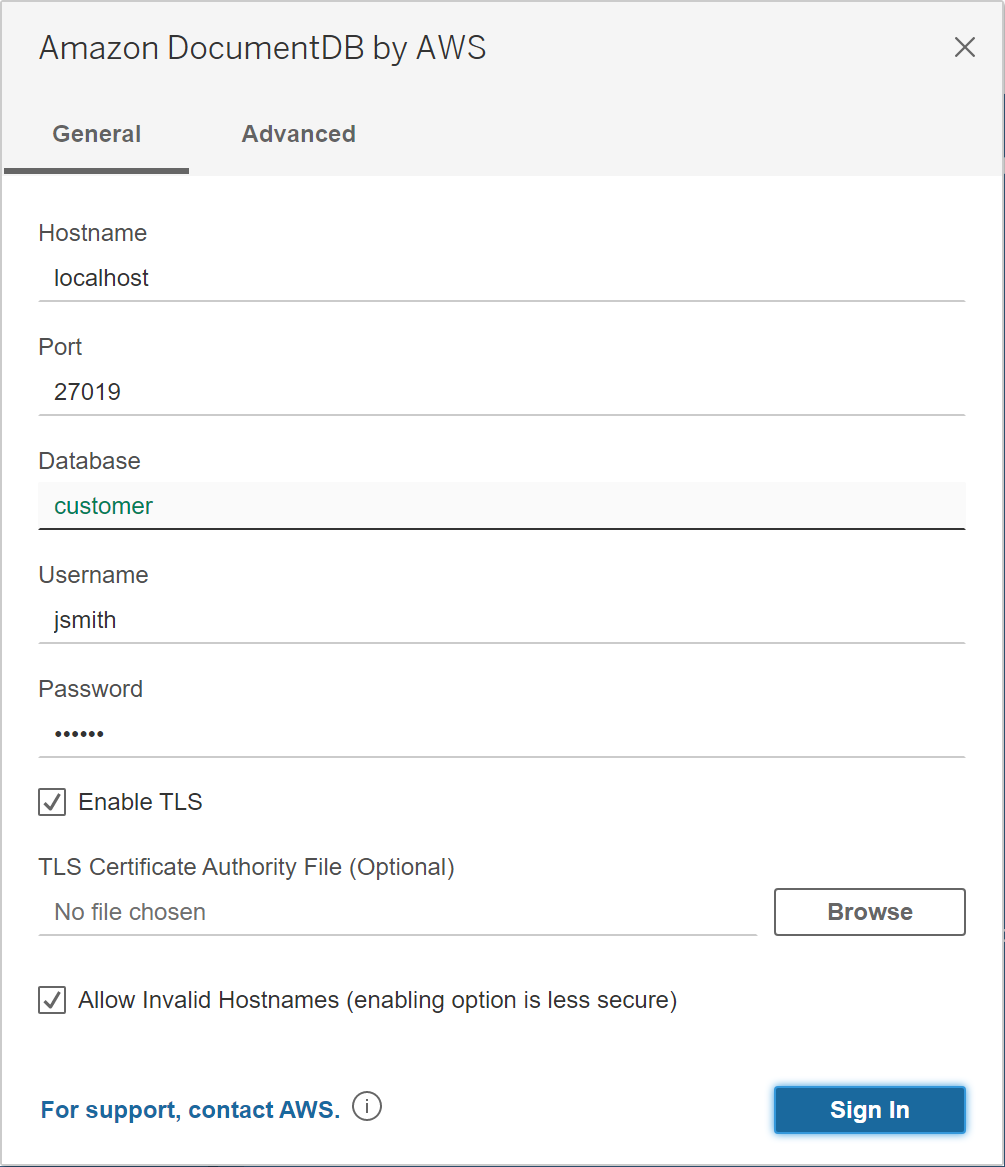
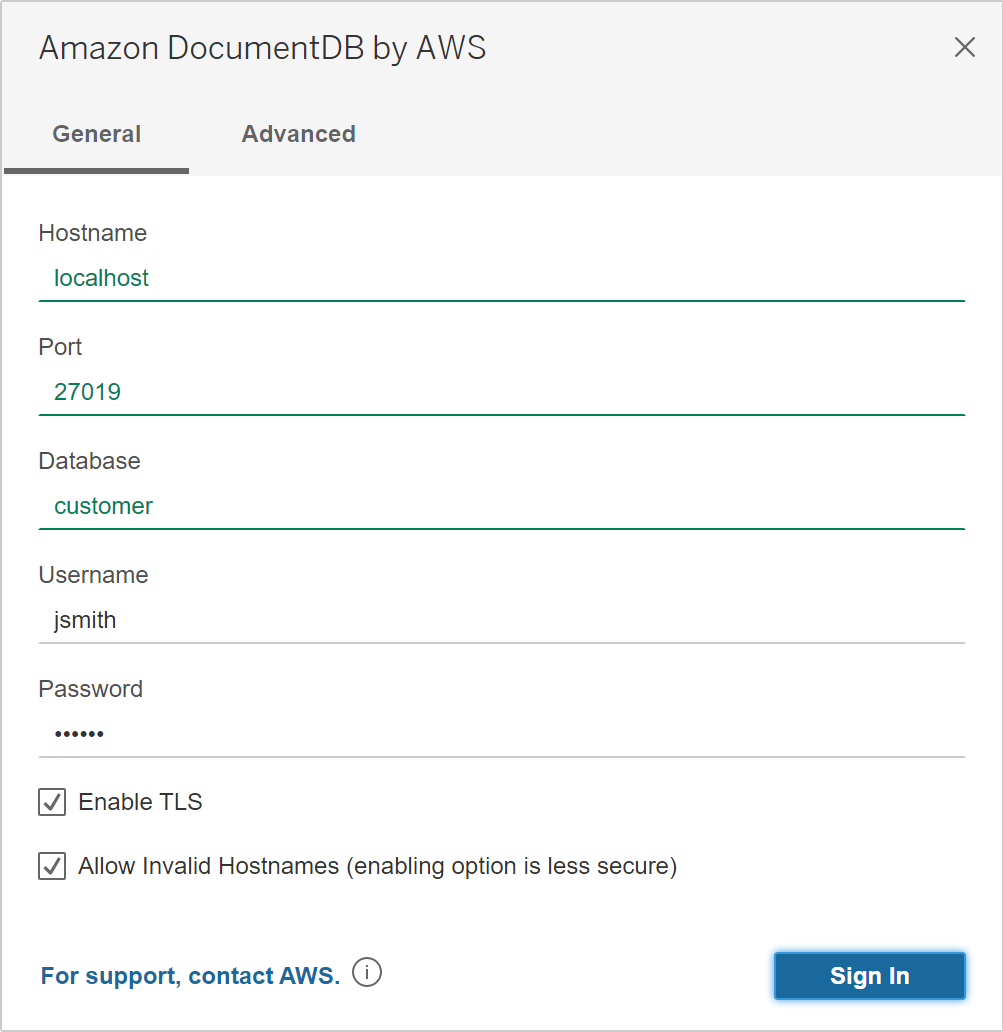
[AD-385] Tableau Connector - passphrase and file properties cannot be use on connection dialog. https:/bitquill.atlassian.net/browse/AD-385

diff --git a/docker/TableauConnector/connectionProperties.js b/docker/TableauConnector/connectionProperties.js
@@ -13,14 +13,11 @@
     const SCAN_LIMIT_KEY = "scanLimit";
     const RETRY_READS_KEY = "retryReads";
     const LOGIN_TIMEOUT_KEY= "loginTimeoutSec";
-    const TLS_CA_FILE_KEY="tlsCAFile"
     const SCHEMA_NAME="schemaName"
     const SSH_USER="sshUser"
     const SSH_HOST="sshHost"
     const SSH_PRIV_KEY_FILE="sshPrivateKeyFile"
-    const SSH_PRIVATE_KEY_PASSPHRASE="sshPrivateKeyPassphrase"
     const SSH_STRICT_HOST_KEY_CHECKING="sshStrictHostKeyChecking"
-    const SSH_KNOWN_HOSTS_FILE="sshKnownHostsFile"
     const REFRESH_SCHEMA="refreshSchema"
 
     // Get optional parameters.
@@ -31,13 +28,10 @@
     params[SCAN_METHOD_KEY] = attr["v-scan-method"];
     params[RETRY_READS_KEY] = attr["v-retry-reads"];
     params[LOGIN_TIMEOUT_KEY] = attr["v-login-timeout"];
-    params[TLS_CA_FILE_KEY] = attr["v-tls-ca-file"];
     params[SSH_USER] = attr["v-ssh-user"];
     params[SSH_HOST] = attr["v-ssh-host"];
     params[SSH_PRIV_KEY_FILE] = attr["v-ssh-priv-key-filename"];
-    params[SSH_PRIVATE_KEY_PASSPHRASE] = attr["v-ssh-priv-key-passphrase"];
     params[SSH_STRICT_HOST_KEY_CHECKING] = attr["v-ssh-strict-host-key-check"];
-    params[SSH_KNOWN_HOSTS_FILE] = attr["v-ssh-known-hosts-file"];
     params[REFRESH_SCHEMA] = attr["v-refresh-schema"];
 
     // Add schema name if set.

diff --git a/common/src/test/java/software/amazon/documentdb/jdbc/common/DocumentDbConnectionPropertiesTest.java b/common/src/test/java/software/amazon/documentdb/jdbc/common/DocumentDbConnectionPropertiesTest.java
@@ -27,12 +27,22 @@ import software.amazon.documentdb.jdbc.DocumentDbConnectionProperty;
 import software.amazon.documentdb.jdbc.DocumentDbMetadataScanMethod;
 import software.amazon.documentdb.jdbc.DocumentDbReadPreference;
 
+import java.io.File;
+import java.io.IOException;
+import java.nio.file.Path;
+import java.nio.file.Paths;
 import java.sql.SQLException;
 import java.util.Properties;
+import java.util.UUID;
 import java.util.concurrent.TimeUnit;
 import java.util.regex.Matcher;
 
+import static software.amazon.documentdb.jdbc.DocumentDbConnectionProperties.CLASS_PATH_LOCATION_NAME;
+import static software.amazon.documentdb.jdbc.DocumentDbConnectionProperties.DOCUMENTDB_HOME_PATH_NAME;
 import static software.amazon.documentdb.jdbc.DocumentDbConnectionProperties.DOCUMENT_DB_SCHEME;
+import static software.amazon.documentdb.jdbc.DocumentDbConnectionProperties.SSH_PRIVATE_KEY_FILE_SEARCH_PATHS;
+import static software.amazon.documentdb.jdbc.DocumentDbConnectionProperties.USER_HOME_PATH_NAME;
+import static software.amazon.documentdb.jdbc.DocumentDbConnectionProperties.getPath;
 
 public class DocumentDbConnectionPropertiesTest {
 
@@ -263,5 +273,62 @@ public class DocumentDbConnectionPropertiesTest {
         properties2.setTlsCAFilePath("~/invalid-filename.pem");
         Assertions.assertDoesNotThrow(
                 (ThrowingSupplier<MongoClientSettings>) properties2::buildMongoClientSettings);
+    }
+
+    @Test()
+    @DisplayName("Tests the getPath method.")
+    void testGetPath() throws IOException {
+        final String tempFilename1 = UUID.randomUUID().toString();
+
+        // Test that it will return using the "current directory"
+        final Path path1 = getPath(tempFilename1);
+        Assertions.assertEquals(Paths.get(tempFilename1).toAbsolutePath(), path1);
+
+        // Test that it will use the user's home path
+        final Path path2 = getPath("~/" + tempFilename1);
+        Assertions.assertEquals(Paths.get(USER_HOME_PATH_NAME, tempFilename1), path2);
+
+        // Test that it will use the user's home path
+        Path homeTempFilePath = null;
+        try {
+            homeTempFilePath = Paths.get(USER_HOME_PATH_NAME, tempFilename1);
+            Assertions.assertTrue(homeTempFilePath.toFile().createNewFile());
+            final Path path3 = getPath(tempFilename1, SSH_PRIVATE_KEY_FILE_SEARCH_PATHS);
+            Assertions.assertEquals(Paths.get(USER_HOME_PATH_NAME, tempFilename1), path3);
+        } finally {
+            Assertions.assertTrue(homeTempFilePath != null && homeTempFilePath.toFile().delete());
+        }
+
+        // Test that it will use the .documentdb folder under the user's home path
+        Path documentDbTempFilePath = null;
+        try {
+            documentDbTempFilePath = Paths.get(DOCUMENTDB_HOME_PATH_NAME, tempFilename1);
+            Assertions.assertTrue(documentDbTempFilePath.toFile().createNewFile());
+            final Path path4 = getPath(tempFilename1, SSH_PRIVATE_KEY_FILE_SEARCH_PATHS);
+            Assertions.assertEquals(Paths.get(DOCUMENTDB_HOME_PATH_NAME, tempFilename1), path4);
+        } finally {
+            Assertions.assertTrue(documentDbTempFilePath != null && documentDbTempFilePath.toFile().delete());
+        }
+
+        // Test that it will use the .documentdb folder under the user's home path
+        Path classPathParentTempFilePath = null;
+        try {
+            classPathParentTempFilePath = Paths.get(CLASS_PATH_LOCATION_NAME, tempFilename1);
+            Assertions.assertTrue(classPathParentTempFilePath.toFile().createNewFile());
+            final Path path5 = getPath(tempFilename1, SSH_PRIVATE_KEY_FILE_SEARCH_PATHS);
+            Assertions.assertEquals(Paths.get(CLASS_PATH_LOCATION_NAME, tempFilename1), path5);
+        } finally {
+            Assertions.assertTrue(classPathParentTempFilePath != null && classPathParentTempFilePath.toFile().delete());
+        }
+
+        // Test that will recognize and use an absolute path
+        File tempFile = null;
+        try {
+            tempFile = File.createTempFile("documentdb", ".tmp");
+            final Path path5 = getPath(tempFile.getAbsolutePath());
+            Assertions.assertEquals(Paths.get(tempFile.getAbsolutePath()), path5);
+        } finally {
+            Assertions.assertTrue(tempFile != null && tempFile.delete());
+        }
     }
 }

diff --git a/common/src/main/java/software/amazon/documentdb/jdbc/DocumentDbConnectionProperties.java b/common/src/main/java/software/amazon/documentdb/jdbc/DocumentDbConnectionProperties.java
@@ -55,6 +55,15 @@ public class DocumentDbConnectionProperties extends Properties {
 
     public static final String DOCUMENT_DB_SCHEME = "jdbc:documentdb:";
     public static final String USER_HOME_PROPERTY = "user.home";
+    public static final String USER_HOME_PATH_NAME = System.getProperty(USER_HOME_PROPERTY);
+    public static final String DOCUMENTDB_HOME_PATH_NAME = Paths.get(
+            USER_HOME_PATH_NAME, ".documentdb").toString();
+    public static final String CLASS_PATH_LOCATION_NAME = getClassPathLocation();
+    public static final String[] SSH_PRIVATE_KEY_FILE_SEARCH_PATHS = {
+            USER_HOME_PATH_NAME,
+            DOCUMENTDB_HOME_PATH_NAME,
+            CLASS_PATH_LOCATION_NAME,
+    };
 
     private static final String AUTHENTICATION_DATABASE = "admin";
     private static final Logger LOGGER =
@@ -79,6 +88,20 @@ public class DocumentDbConnectionProperties extends Properties {
      */
     public DocumentDbConnectionProperties() {
         super();
+    }
+
+    private static String getClassPathLocation() {
+        String classPathLocation = null;
+        try {
+            classPathLocation = Paths.get(DocumentDbConnectionProperties.class
+                    .getProtectionDomain()
+                    .getCodeSource()
+                    .getLocation()
+                    .toURI()).getParent().toString();
+        } catch (URISyntaxException e) {
+            // Ignore error, return null.
+        }
+        return classPathLocation;
     }
 
     /**
@@ -944,7 +967,7 @@ public class DocumentDbConnectionProperties extends Properties {
             final MongoClientSettings.Builder clientSettingsBuilder,
             final int sshLocalPort) {
         final String host;
-        if (enableSshTunnel() && sshLocalPort > 0) {
+        if (enableSshTunnel() && isSshPrivateKeyFileExists() && sshLocalPort > 0) {
             host = String.format("localhost:%d", sshLocalPort);
         } else {
             host = getHostname();
@@ -973,8 +996,16 @@ public class DocumentDbConnectionProperties extends Properties {
     public boolean enableSshTunnel() {
         return !isNullOrWhitespace(getSshUser())
                 && !isNullOrWhitespace(getSshHostname())
-                && !isNullOrWhitespace(getSshPrivateKeyFile())
-                && Files.exists(getPath(getSshPrivateKeyFile()));
+                && !isNullOrWhitespace(getSshPrivateKeyFile());
+    }
+
+    /**
+     * Get whether the SSH private key file exists.
+     *
+     * @return returns {@code true} if the file exists, {@code false}, otherwise.
+     */
+    public boolean isSshPrivateKeyFileExists() {
+        return Files.exists(getPath(getSshPrivateKeyFile(), SSH_PRIVATE_KEY_FILE_SEARCH_PATHS));
     }
 
     /**
@@ -1057,11 +1088,25 @@ public class DocumentDbConnectionProperties extends Properties {
      * @param filePath the given file path to process.
      * @return a {@link Path} for the absolution path for the given file path.
      */
-    public static Path getPath(final String filePath) {
+    public static Path getPath(final String filePath, final String... searchFolders) {
         if (filePath.matches(HOME_PATH_PREFIX_REG_EXPR)) {
-            final String userHomePath = Matcher.quoteReplacement(
-                    System.getProperty(USER_HOME_PROPERTY));
-            return Paths.get(filePath.replaceFirst("~", userHomePath)).toAbsolutePath();
+            final String fromHomePath = filePath.replaceFirst("~",
+                    Matcher.quoteReplacement(USER_HOME_PATH_NAME));
+            return Paths.get(fromHomePath).toAbsolutePath();
+        } else {
+            final Path origFilePath = Paths.get(filePath);
+            if (origFilePath.isAbsolute()) {
+                return origFilePath;
+            }
+            for (String searchFolder : searchFolders) {
+                if (searchFolder == null) {
+                    continue;
+                }
+                final Path testPath = Paths.get(searchFolder, filePath);
+                if (testPath.toAbsolutePath().toFile().exists()) {
+                    return testPath;
+                }
+            }
         }
         return Paths.get(filePath).toAbsolutePath();
     }

diff --git a/src/main/java/software/amazon/documentdb/jdbc/DocumentDbConnection.java b/src/main/java/software/amazon/documentdb/jdbc/DocumentDbConnection.java
@@ -50,6 +50,7 @@ import java.sql.SQLFeatureNotSupportedException;
 import java.util.Arrays;
 import java.util.concurrent.Executor;
 
+import static software.amazon.documentdb.jdbc.DocumentDbConnectionProperties.SSH_PRIVATE_KEY_FILE_SEARCH_PATHS;
 import static software.amazon.documentdb.jdbc.DocumentDbConnectionProperties.getPath;
 import static software.amazon.documentdb.jdbc.DocumentDbConnectionProperties.isNullOrWhitespace;
 import static software.amazon.documentdb.jdbc.DocumentDbConnectionProperty.REFRESH_SCHEMA;
@@ -114,15 +115,27 @@ public class DocumentDbConnection extends Connection
     public static SshPortForwardingSession createSshTunnel(
             final DocumentDbConnectionProperties connectionProperties) throws SQLException {
         if (!connectionProperties.enableSshTunnel()) {
+            LOGGER.info("Internal SSH tunnel not started.");
             return null;
+        } else if (!connectionProperties.isSshPrivateKeyFileExists()) {
+            throw SqlError.createSQLException(
+                    LOGGER,
+                    SqlState.CONNECTION_EXCEPTION,
+                    SqlError.SSH_PRIVATE_KEY_FILE_NOT_FOUND,
+                    connectionProperties.getSshPrivateKeyFile());
         }
 
+        LOGGER.info("Internal SSH tunnel starting.");
         try {
             final JSch jSch = new JSch();
             addIdentity(connectionProperties, jSch);
             final Session session = createSession(connectionProperties, jSch);
             connectSession(connectionProperties, jSch, session);
-            return getPortForwardingSession(connectionProperties, session);
+            final SshPortForwardingSession portForwardingSession = getPortForwardingSession(
+                    connectionProperties, session);
+            LOGGER.info("Internal SSH tunnel started on local port '{}'.",
+                    portForwardingSession.localPort);
+            return portForwardingSession;
         } catch (SQLException e) {
             throw e;
         } catch (Exception e) {
@@ -360,12 +373,14 @@ public class DocumentDbConnection extends Connection
     private static void addIdentity(
             final DocumentDbConnectionProperties connectionProperties,
             final JSch jSch) throws JSchException {
-        final String privateKey = getPath(connectionProperties.getSshPrivateKeyFile()).toString();
+        final String privateKeyFileName = getPath(connectionProperties.getSshPrivateKeyFile(),
+                SSH_PRIVATE_KEY_FILE_SEARCH_PATHS).toString();
+        LOGGER.debug("SSH private key file resolved to '{}'.", privateKeyFileName);
         // If passPhrase protected, will need to provide this, too.
         final String passPhrase = !isNullOrWhitespace(connectionProperties.getSshPrivateKeyPassphrase())
                 ? connectionProperties.getSshPrivateKeyPassphrase()
                 : null;
-        jSch.addIdentity(privateKey, passPhrase);
+        jSch.addIdentity(privateKeyFileName, passPhrase);
     }
 
     private static Session createSession(

diff --git a/common/src/main/java/software/amazon/documentdb/jdbc/common/utilities/SqlError.java b/common/src/main/java/software/amazon/documentdb/jdbc/common/utilities/SqlError.java
@@ -69,6 +69,7 @@ public enum SqlError {
     RESULT_FORWARD_ONLY,
     RESULT_SET_CLOSED,
     SECURITY_ERROR,
+    SSH_PRIVATE_KEY_FILE_NOT_FOUND,
     SINGLE_EQUIJOIN_ONLY,
     SQL_PARSE_ERROR,
     STMT_CLOSED,

diff --git a/src/markdown/setup/connection-string.md b/src/markdown/setup/connection-string.md
@@ -28,7 +28,7 @@
 | `tlsCAFile` | (string) The path to the trusted Certificate Authority (CA) `.pem` file. If the path starts with the tilde character (`~`), it will be replaced with the user's home directory. Ensure to use only forward slash characters (`/`) in the path or URL encode the path. Providing the trusted Certificate Authority (CA) `.pem` file is optional as the current Amazon RDS root CA is used by default when the `tls` option is set to `true`. This embedded certificate is set to expire on 2024-08-22. For example, to provide a new trusted Certificate Authority (CA) `.pem` file that is located in the current user's `Downloads` subdirectory of their home directory, use the following: `tlsCAFile=~/Downloads/rds-ca-2019-root.pem`. | `NONE`
 | `sshUser` | (string) The username for the internal SSH tunnel. If provided, options `sshHost` and `sshPrivateKeyFile` must also be provided, otherwise this option is ignored. | `NONE`
 | `sshHost` | (string) The host name for the internal SSH tunnel. Optionally the SSH tunnel port number can be provided using the syntax `<ssh-host>:<port>`. The default port is `22`. If provided, options `sshUser` and `sshPrivateKeyFile` must also be provided, otherwise this option is ignored. | `NONE`
-| `sshPrivateKeyFile` | (string) The path to the private key file for the internal SSH tunnel. If the path starts with the tilde character (`~`), it will be replaced with the user's home directory. If provided, options `sshUser` and `sshHost` must also be provided, otherwise this option is ignored. | `NONE`
+| `sshPrivateKeyFile` | (string) The path to the private key file for the internal SSH tunnel. If the path starts with the tilde character (`~`), it will be replaced with the user's home directory. If the path is relative, the absolute path will try to be resolved by searching in the user's home directory (`~`), the `.documentdb` folder under the user's home directory or in the same directory as the driver JAR file. If the file cannot be found, a connection error will occur. If provided, options `sshUser` and `sshHost` must also be provided, otherwise this option is ignored. | `NONE`
 | `sshPrivateKeyPassphrase` | (string) If the SSH tunnel private key file, `sshPrivateKeyFile`, is passphrase protected, provide the passphrase using this option. If provided, options `sshUser`, `sshHost` and `sshPrivateKeyFile` must also be provided, otherwise this option is ignored. | `NONE`
 | `sshStrictHostKeyChecking` | (true/false) If true, the 'known_hosts' file is checked to ensure the target host is trusted when creating the internal SSH tunnel. If false, the target host is not checked. Disabling this option is less secure as it can lead to a ["man-in-the-middle" attack](https://en.wikipedia.org/wiki/Man-in-the-middle_attack). If provided, options `sshUser`, `sshHost` and `sshPrivateKeyFile` must also be provided, otherwise this option is ignored. | `true`
 | `sshKnownHostsFile` | (string) The path to the 'known_hosts' file used for checking the target host for the SSH tunnel when option `sshStrictHostKeyChecking` is `true`. The `known_hosts` file can be populated using the `ssh-keyscan` [tool](maintain_known_hosts.md). If provided, options `sshUser`, `sshHost` and `sshPrivateKeyFile` must also be provided, otherwise this option is ignored. | `~/.ssh/known_hosts`

diff --git a/src/markdown/setup/tableau-desktop-driver-setup.md b/src/markdown/setup/tableau-desktop-driver-setup.md
@@ -43,7 +43,7 @@
 #### Connecting to Amazon DocumentDB Using Tableau - Internal SSH Tunnel
 1. On the **Advanced** tab, click the **Enable SSH Tunnel** option to review further properties.
 
-    ![Tableau login dialog SSH Tunnel](../images/tableau/tableau-connection-dialog-ssh-adv-with-check.jpg)
+    ![Tableau login dialog SSH Tunnel](../images/tableau/tableau-connection-dialog-ssh-adv-with-check.png)
 
 2. Enter the **SSH User**, **SSH Hostname**, and **SSH Private Key File**. Optionally, enter the
    **SSH Private Key File Passphrase** if your key file is passphrase protected.
@@ -53,13 +53,13 @@
    **Note:** _Disabling this option is less secure as it can lead to a
    ["man-in-the-middle" attack](https://en.wikipedia.org/wiki/Man-in-the-middle_attack)._
 
-    ![Tableau login dialog SSH Tunnel](../images/tableau/tableau-connection-dialog-ssh-adv-no-check.jpg)
+    ![Tableau login dialog SSH Tunnel](../images/tableau/tableau-connection-dialog-ssh-adv-no-check.png)
 
 4. Enter the parameters. **Hostname**, **Port**, **Database**, **Username** and **Password**
    are required while the others are optional. Descriptions for each parameter can be found in
    the [JDBC connection string](connection-string.md) documentation. **Note:** _Ensure to use the 
    **DocumentDB cluster** hostname and not `localhost` when using the internal SSH tunnel option._
 
-    ![Tableau login dialog SSH Tunnel](../images/tableau/tableau-connection-dialog-ssh-general.jpg)
+    ![Tableau login dialog SSH Tunnel](../images/tableau/tableau-connection-dialog-ssh-general.png)
 
 5. Click the **Sign In** button.
